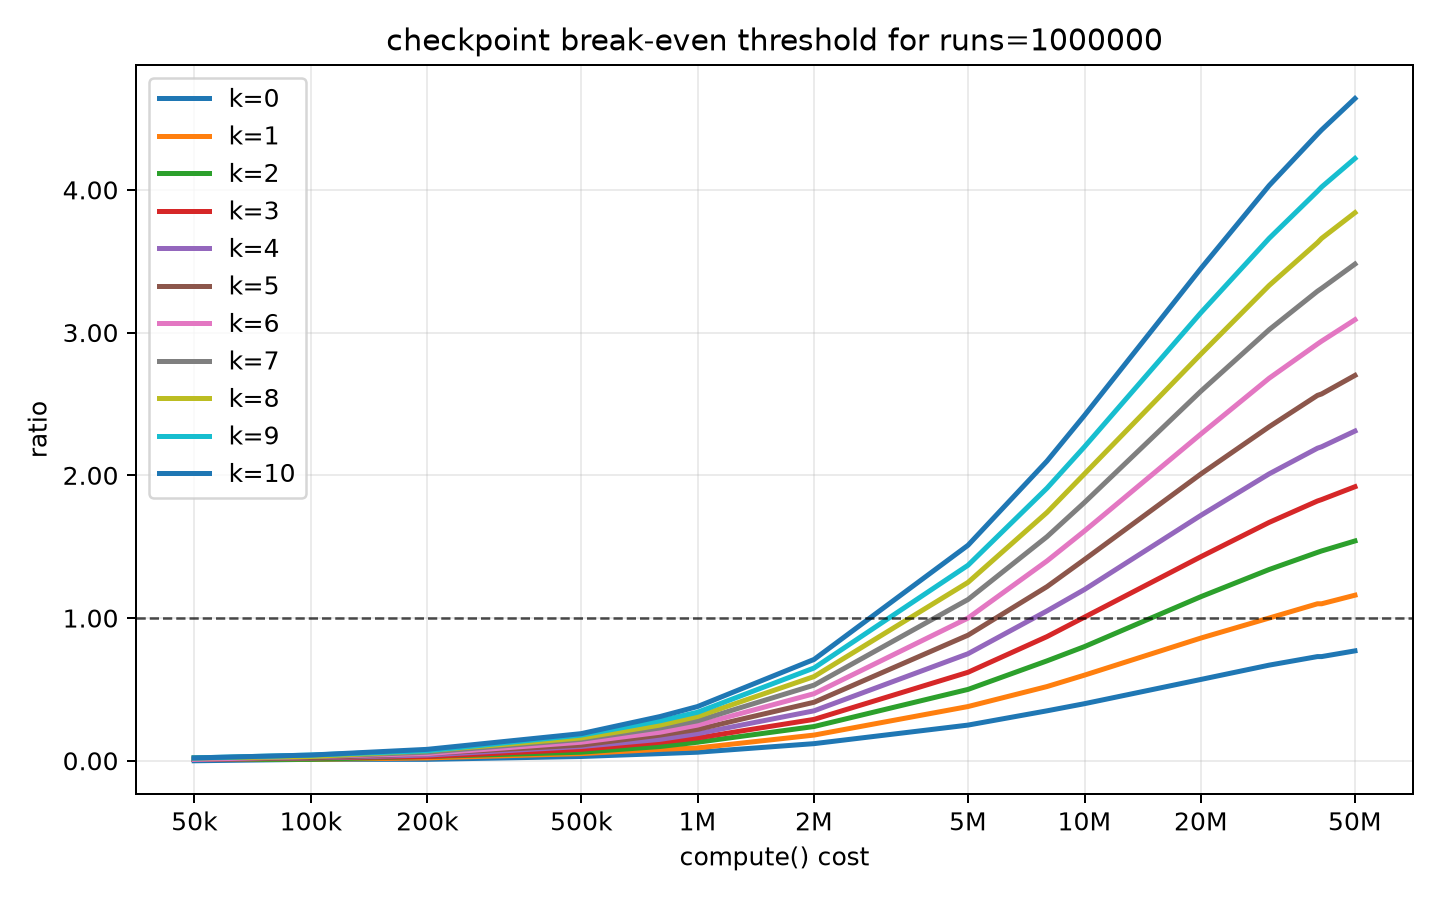
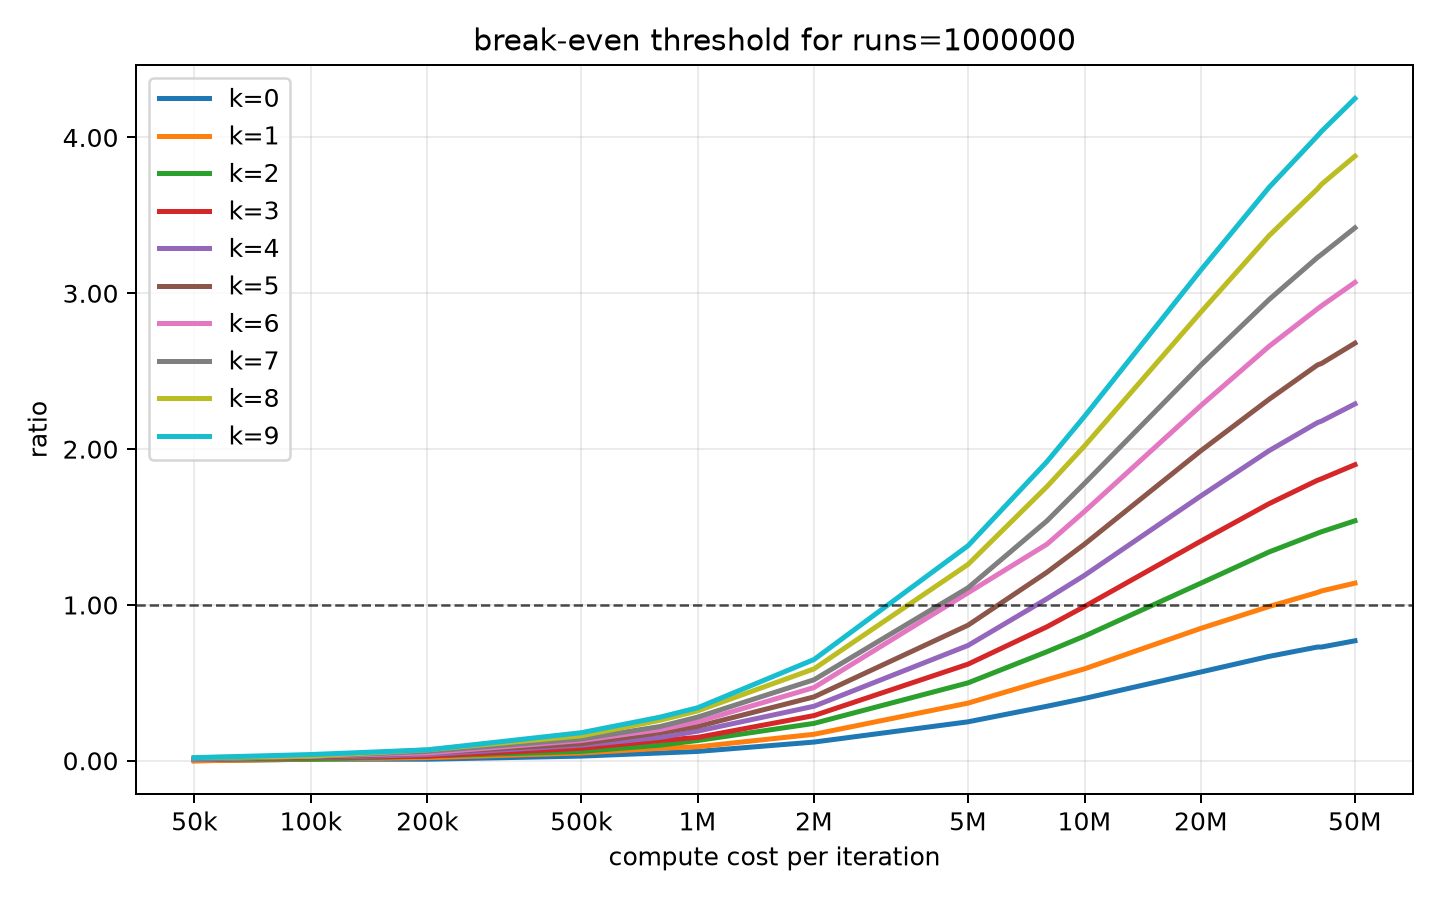
[FIX] plots k & runs

diff --git a/report/main.tex b/report/main.tex
@@ -1826,6 +1826,14 @@ C_{compute} &\geq \frac{2\,C_{save}}{K} + \frac{2\,C_{load}}{N}
 \end{align*}
 Given the actual costs of the save and load cycles as shown in \ref{sub:cycle_cost}.
 We can isolate the computation needed in order to reach the threshold value.
+\\
+Assuming that we use:
+\begin{itemize}
+    \item $N = 1.000.000$
+    \item $K = [0-9]$
+    \item $C_{save} = 15.000.000$ (runtime test is $[15M-20M]$)
+    \item $C_{load} = 15.000.000$
+\end{itemize} 
 \begin{align*}
 C_{compute} &\geq \frac{40.000.000}{K} + \frac{40.000.000}{N}\\
 C_{compute} &\geq 40.000.400
@@ -1846,16 +1854,46 @@ C_{compute} &\geq 40.000.400
 \section{Experiment Analysis}
 \begin{figure}[H]
         \centering
-        \includegraphics[width=0.8\linewidth]{img/plots/break_even_focus_run_100000_k_1.png}
-        \caption{Threshold for 1 error over a 100.000 runs enclave}
-        \label{fig:threshold_k}
-    \end{figure}
+        \includegraphics[width=0.8\linewidth]{img/plots/15m_break_even_focus_run_1000000_k_1.png}
+        \caption{Threshold for 1 error over a 1.000.000 runs enclave assuming a 15M cost for load and save}
+        \label{fig:15m_threshold_k}
+\end{figure}
+Note that this is represents our scenario.
+
+\begin{figure}[H]
+        \centering
+        \includegraphics[width=0.8\linewidth]{img/plots/20m_break_even_focus_run_1000000_k_1.png}
+        \caption{Threshold for 1 error over a 1.000.000 runs enclave assuming a 20M cost for load and save}
+        \label{fig:20m_threshold_k}
+\end{figure}
+
+\begin{figure}[H]
+        \centering
+        \includegraphics[width=0.8\linewidth]{img/plots/50m_break_even_focus_run_1000000_k_1.png}
+        \caption{Threshold for 1 error over a 1.000.000 runs enclave assuming a 50M cost for load and save}
+        \label{fig:50m_threshold_k}
+\end{figure}
 
 \begin{figure}[H]
     \centering
-    \includegraphics[width=0.8\linewidth]{img/plots/break_even_thresholds_runs_100000.png}
-    \caption{Threshold ratio for k=$[0-9]$, over a 100.000 runs enclave}
-    \label{fig:threshold_all_k}
+    \includegraphics[width=0.8\linewidth]{img/plots/15m_break_even_thresholds_runs_1000000.png}
+    \caption{Threshold ratio for k=$[0-9]$, over a 1.000.000 runs enclave assuming a 15M cost for load and save}
+    \label{fig:15m_threshold_all_k}
+\end{figure}
+Note that this is represents our scenario.
+
+\begin{figure}[H]
+    \centering
+    \includegraphics[width=0.8\linewidth]{img/plots/20m_break_even_thresholds_runs_1000000.png}
+    \caption{Threshold ratio for k=$[0-9]$, over a 1.000.000 runs enclave assuming a 20M cost for load and save}
+    \label{fig:20m_threshold_all_k}
+\end{figure}
+
+\begin{figure}[H]
+    \centering
+    \includegraphics[width=0.8\linewidth]{img/plots/50m_break_even_thresholds_runs_1000000.png}
+    \caption{Threshold ratio for k=$[0-9]$, over a 1.000.000 runs enclave assuming a 50M cost for load and save}
+    \label{fig:50m_threshold_all_k}
 \end{figure}
 \subsubsection{Timing overhead}
 \subsubsection{Data cost}

diff --git a/examples/rewind/eapp/eapp_test.c b/examples/rewind/eapp/eapp_test.c
@@ -289,7 +289,7 @@ int run_break_even_test()
 {
     enum
     {
-        MAX_DETERMINISTIC_FAULTS = 10
+        MAX_DETERMINISTIC_FAULTS = 9
     };
 
     uint64_t save_cycles, load_cycles, compute_cycles;
@@ -304,7 +304,7 @@ int run_break_even_test()
     const unsigned long ten_million=10*million;
 
     save_cycles = 15*million;
-    load_cycles = 15*million;
+    load_cycles = save_cycles;
     compute_cycles=50*thousand;
 
 
@@ -362,9 +362,10 @@ int run_break_even_test()
             cost_save[k] /= avg_runs;
             cost_no_save[k] /= avg_runs;
 
+#if EAPP_BREAK_EVEN_CSV_OUTPUT
             print_indexed_metric("break_even no_save min_error_sum ", k, min_no_save_error_sum);
             print_indexed_metric("break_even no_save max_error_sum ", k, max_no_save_error_sum);
-
+#endif
             int threshold_reached = 0;
             for (int cp = 0; cp < compute_count; cp++)
             {   
